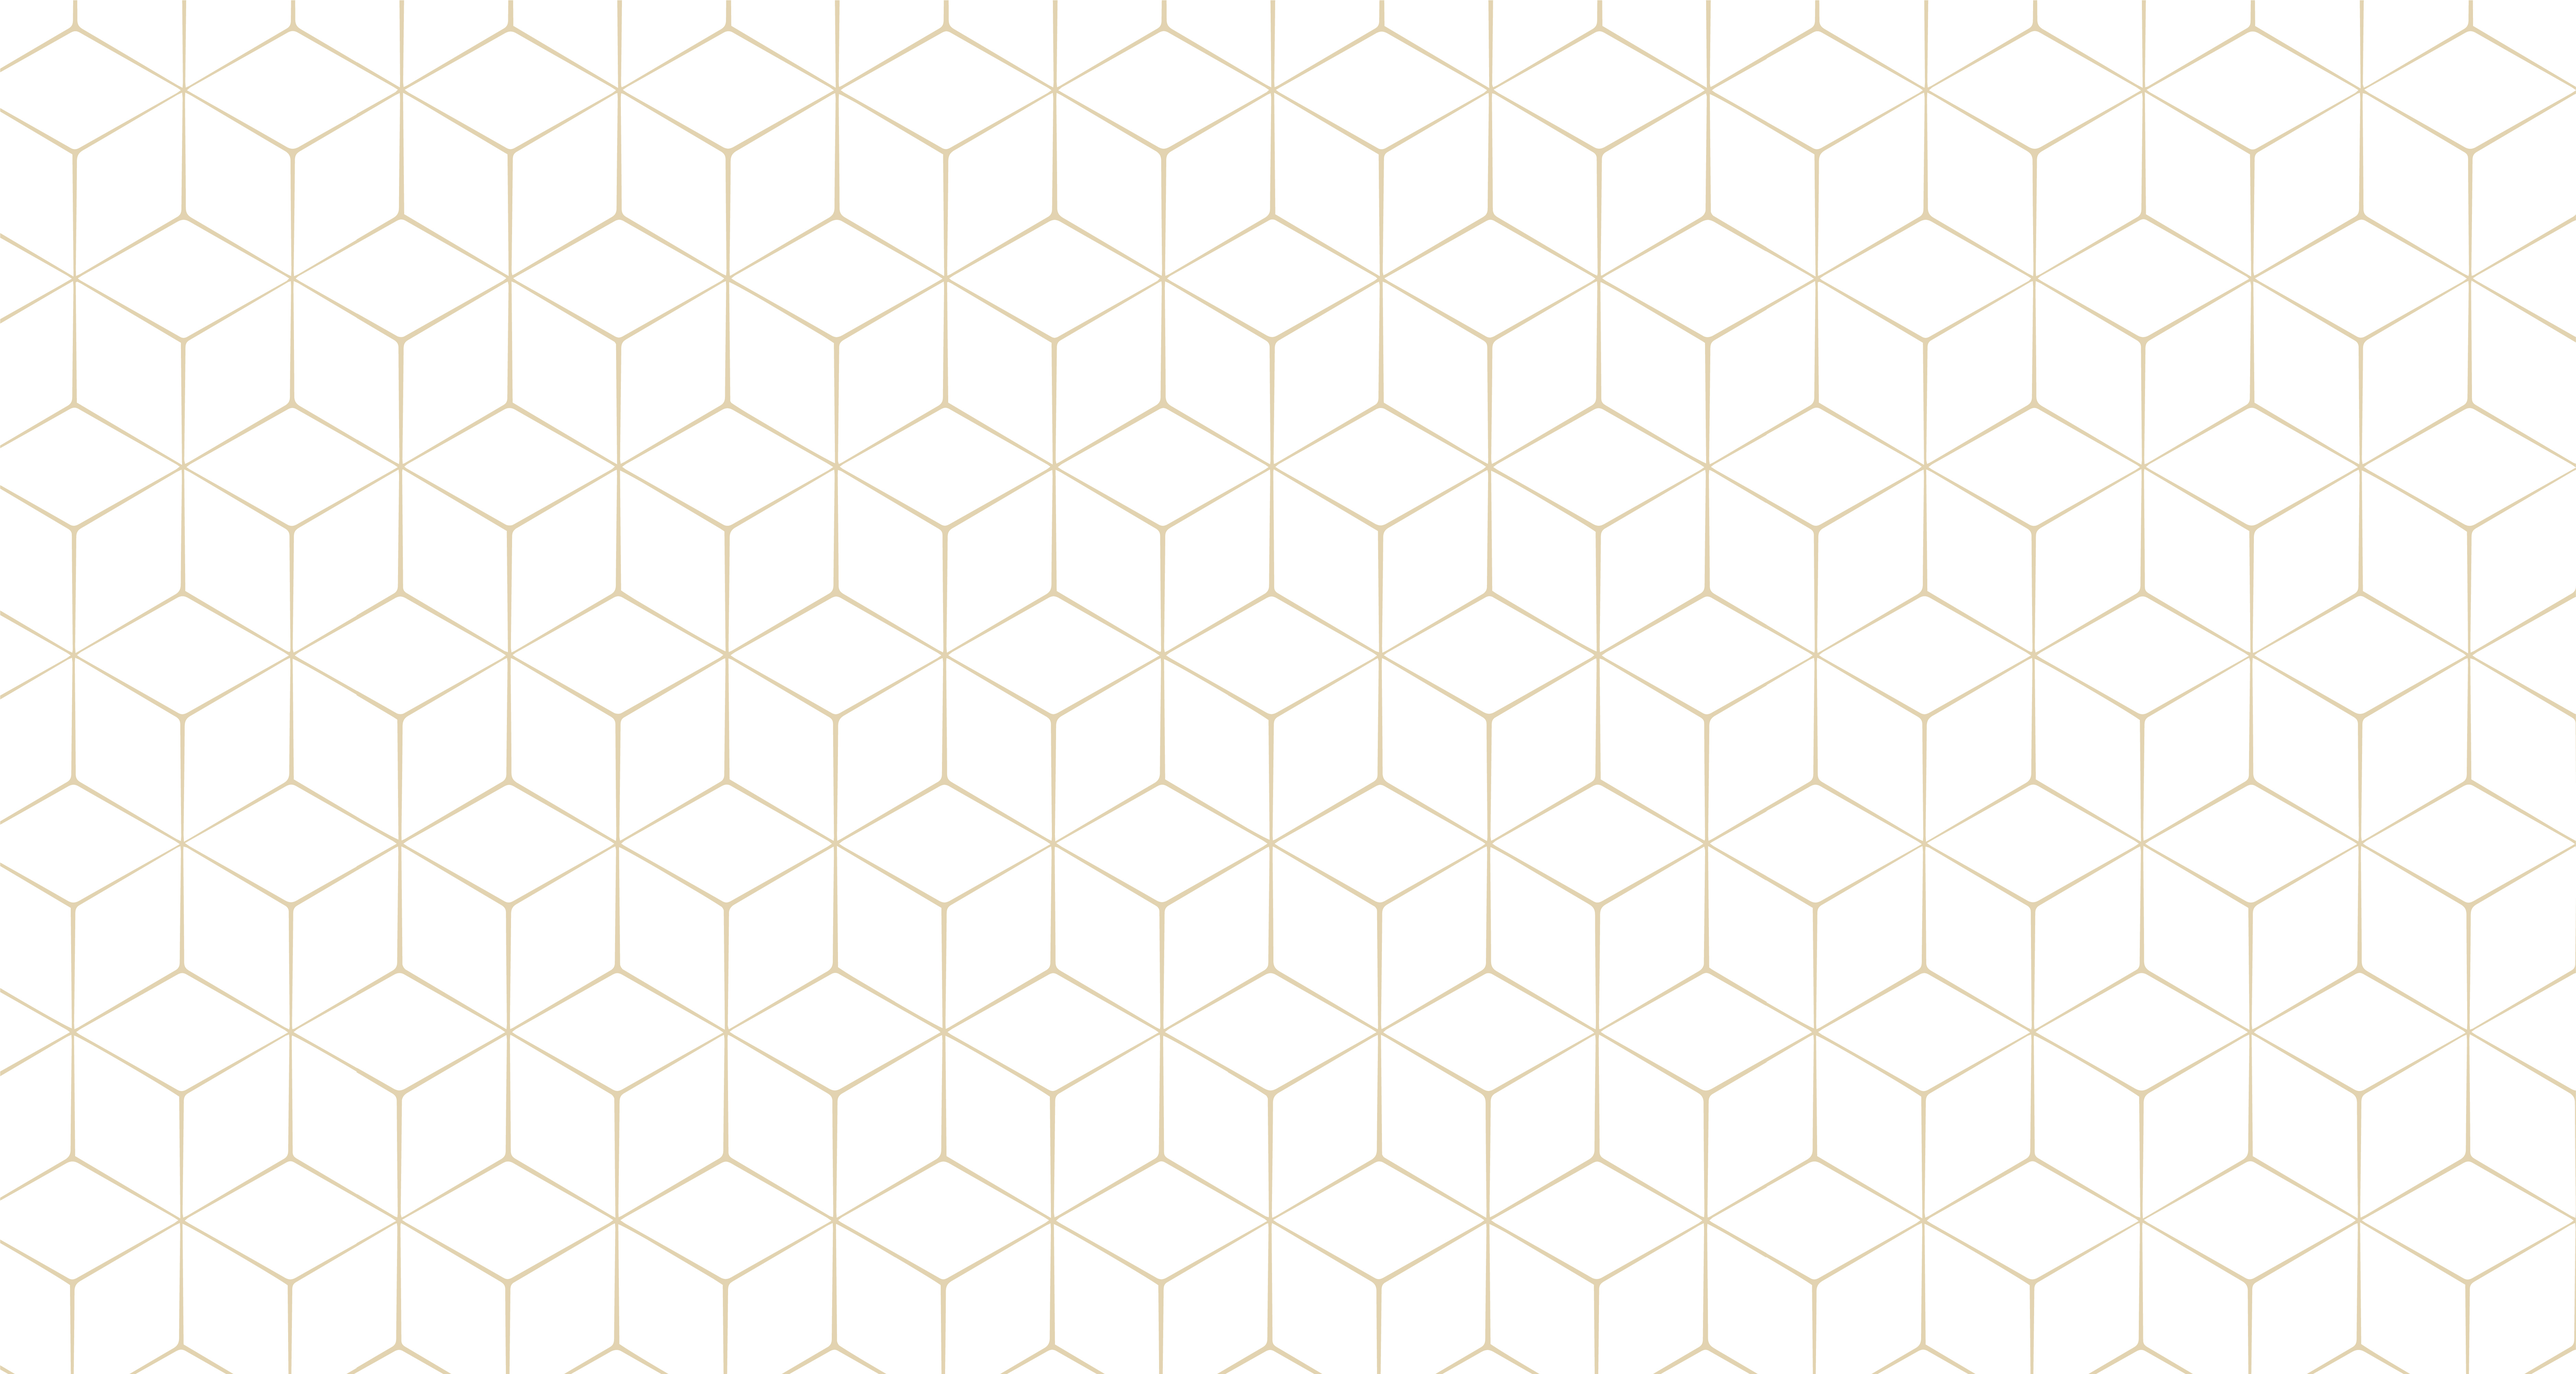
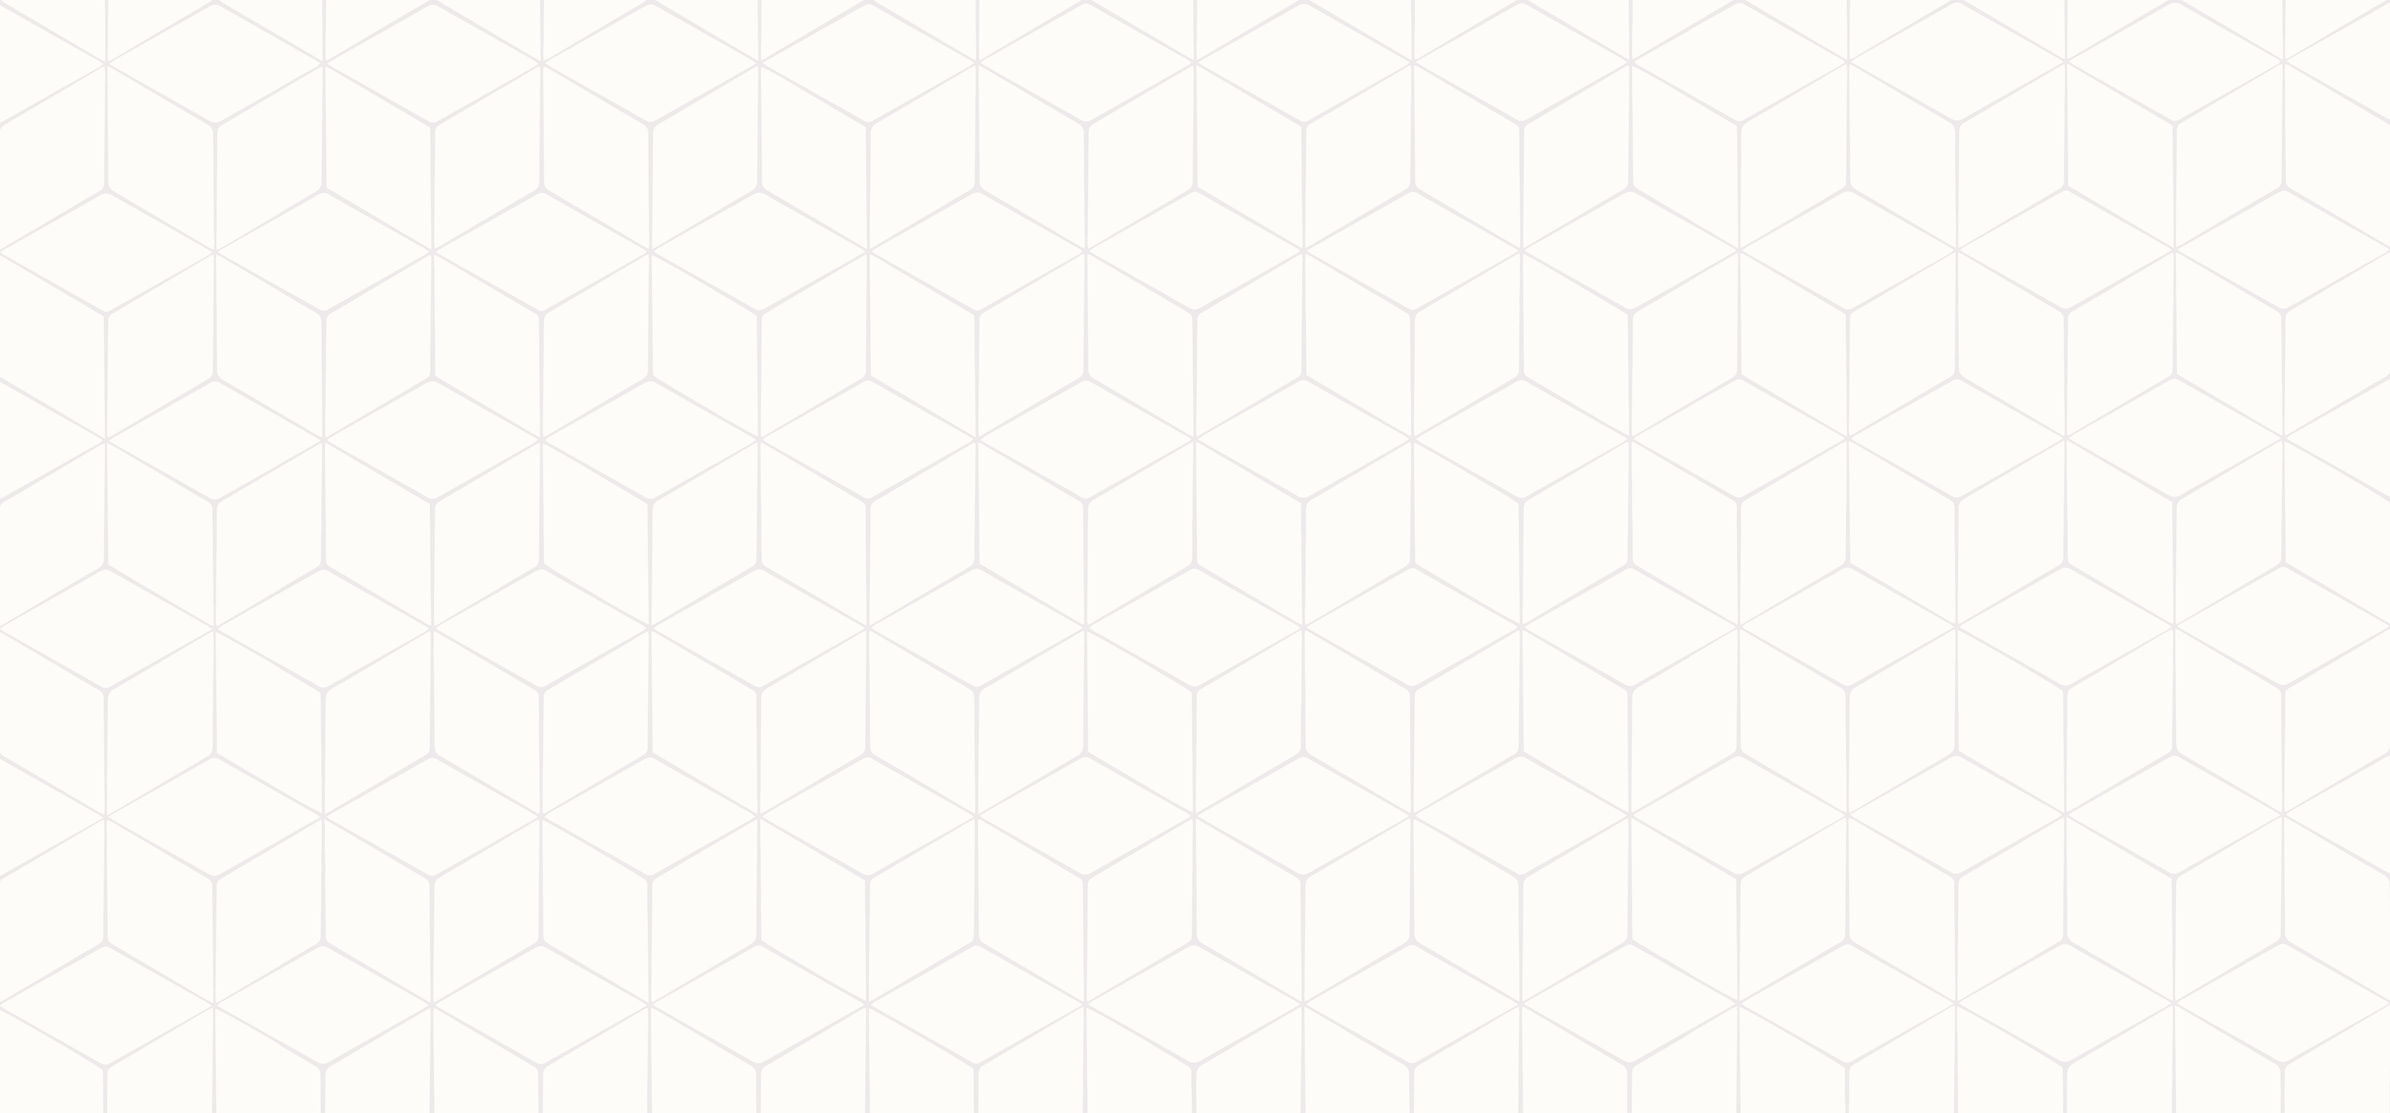
start Galllery Screen

diff --git a/restaurant/src/screens/GalleryScreen.js b/restaurant/src/screens/GalleryScreen.js
@@ -1,4 +1,4 @@
-import React from 'react'
+import React, { useState } from 'react'
 import PageTitle from '../PageTitle'
 import Navbar from '../Navbar'
 
@@ -11,61 +11,81 @@ import img6 from '../assets/cala-w6ftFbPCs9I-unsplash.jpg';
 import img7 from '../assets/brooke-lark--F_5g8EEHYE-unsplash.jpg';
 import img8 from '../assets/mgg-vitchakorn-DDn9I5V1ubE-unsplash.jpg';
 import img9 from '../assets/orkun-orcan-w0GyGNyGo6Y-unsplash.jpg';
-import img10 from '../assets/orkun-orcan-w0GyGNyGo6Y-unsplash.jpg';
+import img10 from '../assets/01.jpg';
 
 export default function GalleryScreen() {
 
     let data = [
         {
             id: 1,
-            imgScr: img1
+            imgSrc: img1
         },
         {
             id: 2,
-            imgScr: img2
+            imgSrc: img2
         },
         {
             id: 3,
-            imgScr: img3
+            imgSrc: img3
         },
         {
             id: 4,
-            imgScr: img4
+            imgSrc: img4
         },
         {
             id: 5,
-            imgScr: img5
+            imgSrc: img5
         },
         {
             id: 6,
-            imgScr: img6
+            imgSrc: img6
         },
         {
             id: 7,
-            imgScr: img7
+            imgSrc: img7
         },
         {
             id: 8,
-            imgScr: img8
+            imgSrc: img8
         },
         {
             id: 9,
-            imgScr: img9
+            imgSrc: img9
         },
         {
             id: 10,
-            imgScr: img10
+            imgSrc: img10
         },
     ]
+
+    const [model, setModel] = useState(false);
+    const [tempImg, setTempImg] = useState('');
+
+
+    const getImage = (imgSrc) => {
+        setTempImg(imgSrc);
+        setModel(true);
+    }
     return (
         <>
             <div className="header-and-hero GalleryScreen">
                 <Navbar />
                 <PageTitle content="Gallery" />
             </div>
+            <div className={model ? "model open" : "model"}>
+                <img src={tempImg} />
+            </div>
+            <div className="Gallery mt1">
 
-            <div className="margins">Photos</div>
-            {console.warn(data)}
+                {data.map((item, index) => {
+                    return (
+                        <div className="Gallery__images" key={index} onClick={() => getImage(item.imgSrc)}>
+                            <img className="Gallery__img" src={item.imgSrc} />
+                        </div>
+                    )
+                })}
+            </div>
+
         </>
     )
 }

diff --git a/restaurant/src/App.css b/restaurant/src/App.css
@@ -339,9 +339,6 @@ html {
   flex-direction: column;
   justify-content: space-between;
   min-height: 100vh;
-  background: url('assets/19742.jpg');
-  background-size: contain;
-  background-repeat: repeat;
 }
 
 /**************************/
@@ -497,7 +494,7 @@ header {
     position: relative;
     height: 100%;
     padding-block: 30%;
-    padding-inline: 10%;
+    padding-inline: 3rem;
     display: flex;
     flex-direction: column;
     align-items: flex-start;
@@ -1073,4 +1070,82 @@ footer {
 
 .OrdersScreen .fa-circle-check {
   color: green;
+}
+
+
+
+/*******************************/
+/***   galleryScreen         ***/
+/*******************************/
+
+.Gallery__img {
+  width: 100%;
+  margin-bottom: 1rem;
+}
+
+.Gallery__img:hover {
+  filter: opacity(0.8);
+}
+
+.Gallery {
+  padding-inline: 5%;
+  -webkit-column-count: 2;
+  -moz-column-count: 2;
+  column-count: 2;
+  -webkit-column-width: 50%;
+  -moz-column-width: 50%;
+  column-width: 50%;
+}
+
+@media(min-width:901px) {
+  .Gallery {
+    -webkit-column-count: 3;
+    -moz-column-count: 3;
+    column-count: 3;
+    -webkit-column-width: 33%;
+    -moz-column-width: 33%;
+    column-width: 33%;
+  }
+
+
+}
+
+.Gallery__images {
+  transition: all 350ms ease;
+  cursor: pointer;
+}
+
+.model {
+  border: 1px solid red;
+  width: 100%;
+  height: 100vh;
+  position: fixed;
+  top: 0;
+  left: 0;
+  display: grid;
+  place-items: center;
+  background-color: black;
+  transition: opacity 0.4s ease, visibility 0.4s ease, transform 0.5s ease-in-out;
+  visibility: hidden;
+  opacity: 0;
+  transform: scale(0);
+  overflow: hidden;
+  z-index: 25;
+}
+
+.modal.open {
+  visibility: visible;
+  opacity: 1;
+  transform: scale(1);
+}
+
+.model img {
+  width: auto;
+  max-width: 100%;
+  height: auto;
+  max-height: 100%;
+  display: block;
+  line-height: 0;
+  padding: 1.5rem 0 1.5rem;
+  margin: 0 auto;
 }

diff --git a/restaurant/src/screens/OrdersScreen.js b/restaurant/src/screens/OrdersScreen.js
@@ -1,9 +1,8 @@
-import React, { useState, useEffect } from "react";
+import React, { useEffect } from "react";
 import { useDispatch, useSelector } from 'react-redux'
 import { getUserOrders } from '../actions/orderActions'
 import Error from "../Error";
 import Loading from "../Loading";
-import Success from "../Success";
 import Navbar from '../Navbar';
 import PageTitle from '../PageTitle';
 
@@ -19,7 +18,7 @@ export default function OrdersScreen() {
 
     useEffect(() => {
         dispatch(getUserOrders())
-    }, [])
+    }, [dispatch])
 
     return (
         <>
@@ -59,7 +58,7 @@ export default function OrdersScreen() {
                                     )
                                 })}
                             </ol>
-                            <p>{(order.isCollected == false && order.isDelivered == false) && <h3>Pending...</h3>}</p>
+                            <p>{(order.isCollected === false && order.isDelivered === false) && <h3>Pending...</h3>}</p>
                             <p>{order.isDelivered && <div><h3>Delivered <i className="fa-solid fa-circle-check"></i></h3>
                                 <p className="mt1">Delivery address: {order.address.street}, {order.address.postcode}, {order.address.city}. </p></div>}</p>
                             <p>{order.isCollected && <h3>Collected <i className="fa-solid fa-circle-check"></i></h3>}</p>

diff --git a/restaurant/src/screens/UsersList.js b/restaurant/src/screens/UsersList.js
@@ -1,6 +1,6 @@
-import React, { useState, useEffect } from "react";
+import React, { useEffect } from "react";
 import { useDispatch, useSelector } from "react-redux";
-import { getAllOrders } from "../actions/orderActions";
+// import { getAllOrders } from "../actions/orderActions";
 import { deleteUser, getAllUsers } from '../actions/userActions'
 
 import Error from "../Error";
@@ -22,7 +22,7 @@ export default function UsersList() {
 
         dispatch(getAllUsers())
 
-    }, [])
+    }, [dispatch])
 
     return (
         <>

diff --git a/restaurant/src/screens/OrdersList.js b/restaurant/src/screens/OrdersList.js
@@ -1,4 +1,4 @@
-import React, { useState, useEffect } from "react";
+import React, { useEffect } from "react";
 import { useDispatch, useSelector } from 'react-redux'
 import { collectOrder, deliverOrder, getAllOrders } from "../actions/orderActions";
 
@@ -18,7 +18,7 @@ export default function OrdersList() {
   const { loading, error, orders } = getOrdersState;
   useEffect(() => {
     dispatch(getAllOrders());
-  }, []);
+  }, [dispatch]);
 
 
   return (

diff --git a/restaurant/src/App.js b/restaurant/src/App.js
@@ -11,8 +11,6 @@ import AdminScreen from './screens/AdminScreen';
 import GalleryScreen from './screens/GalleryScreen';
 import ContactScreen from './screens/ContactScreen';
 import AboutScreen from './screens/AboutScreen';
-import Navbar from './Navbar'
-import PageTitle from './PageTitle'
 
 // Admin
 import AddDish from "./screens/AddDish";

diff --git a/restaurant/src/screens/CartScreen.js b/restaurant/src/screens/CartScreen.js
@@ -1,6 +1,5 @@
 import React from 'react';
 import { useSelector, useDispatch } from 'react-redux';
-import { useState } from "react";
 import { addToCart } from '../actions/cartActions';
 import { deleteFromCart } from '../actions/cartActions'
 import Checkout from '../Checkout'
